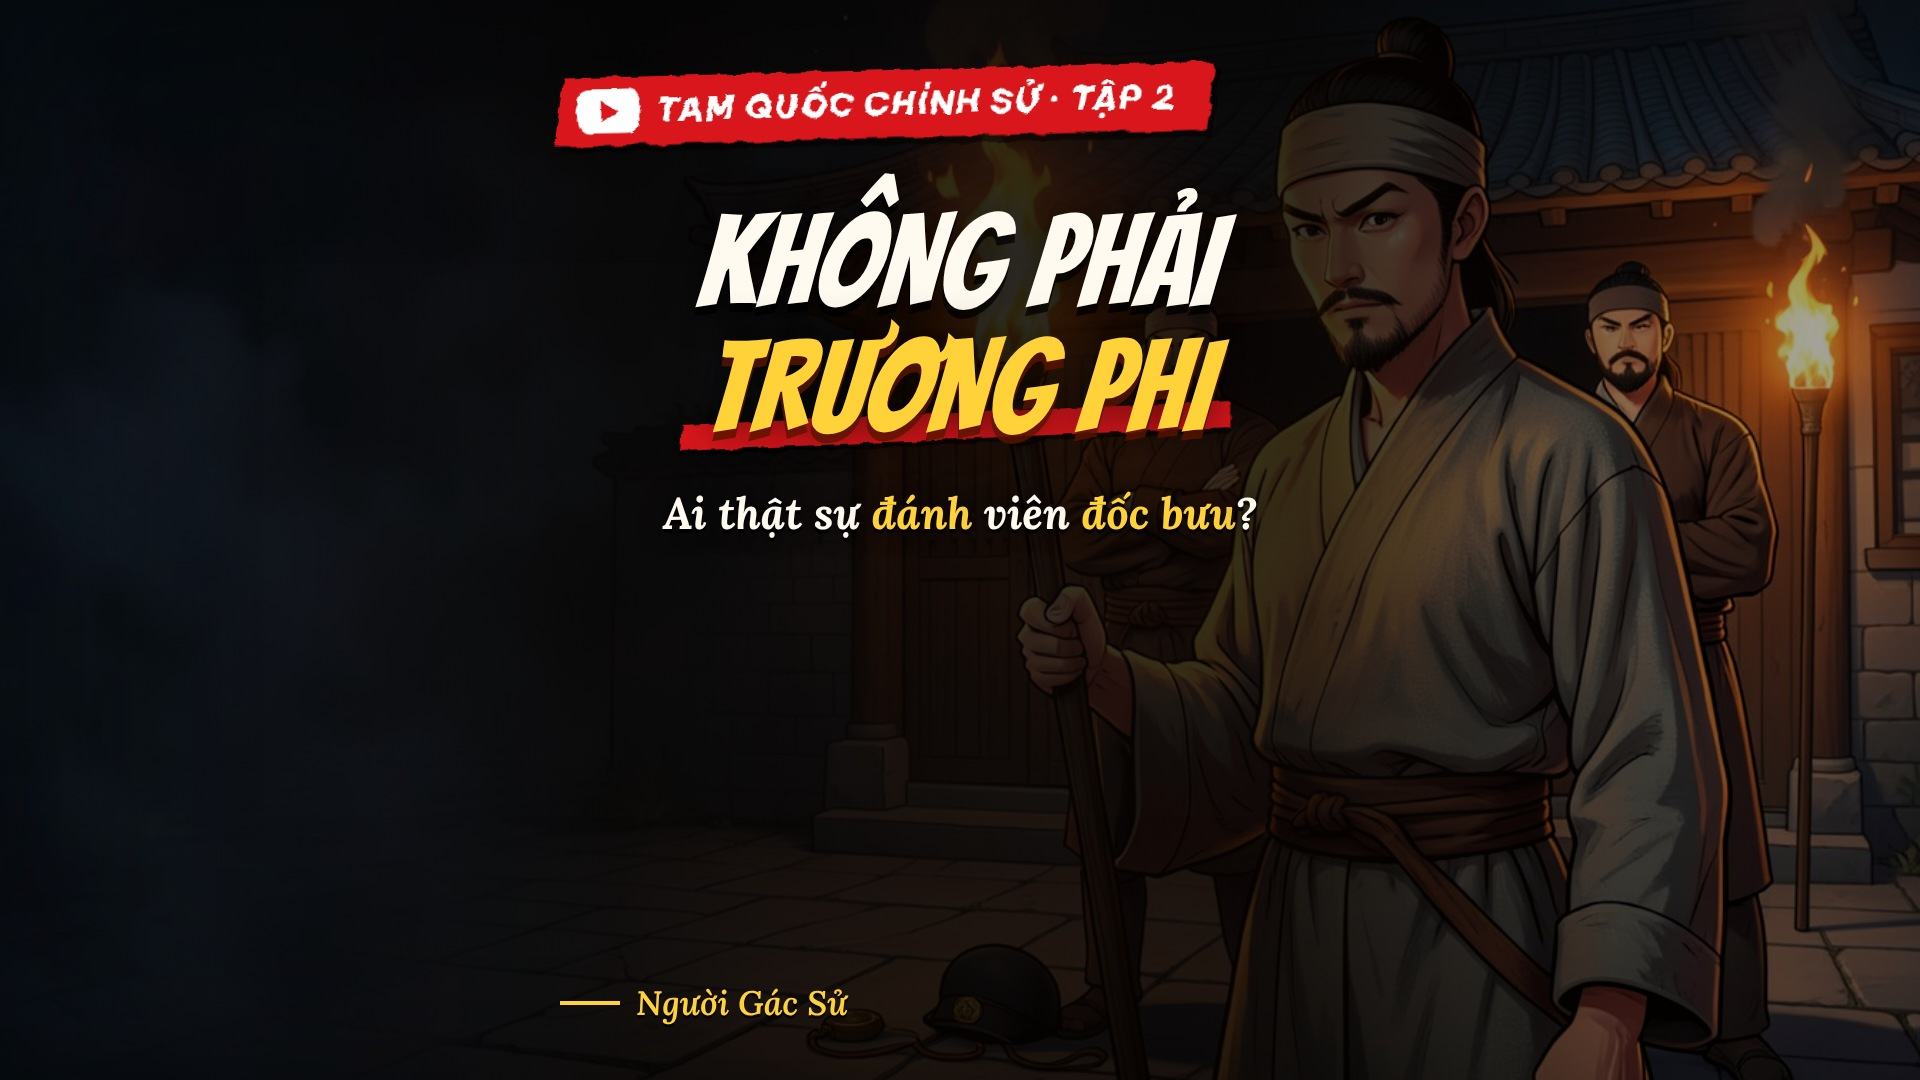
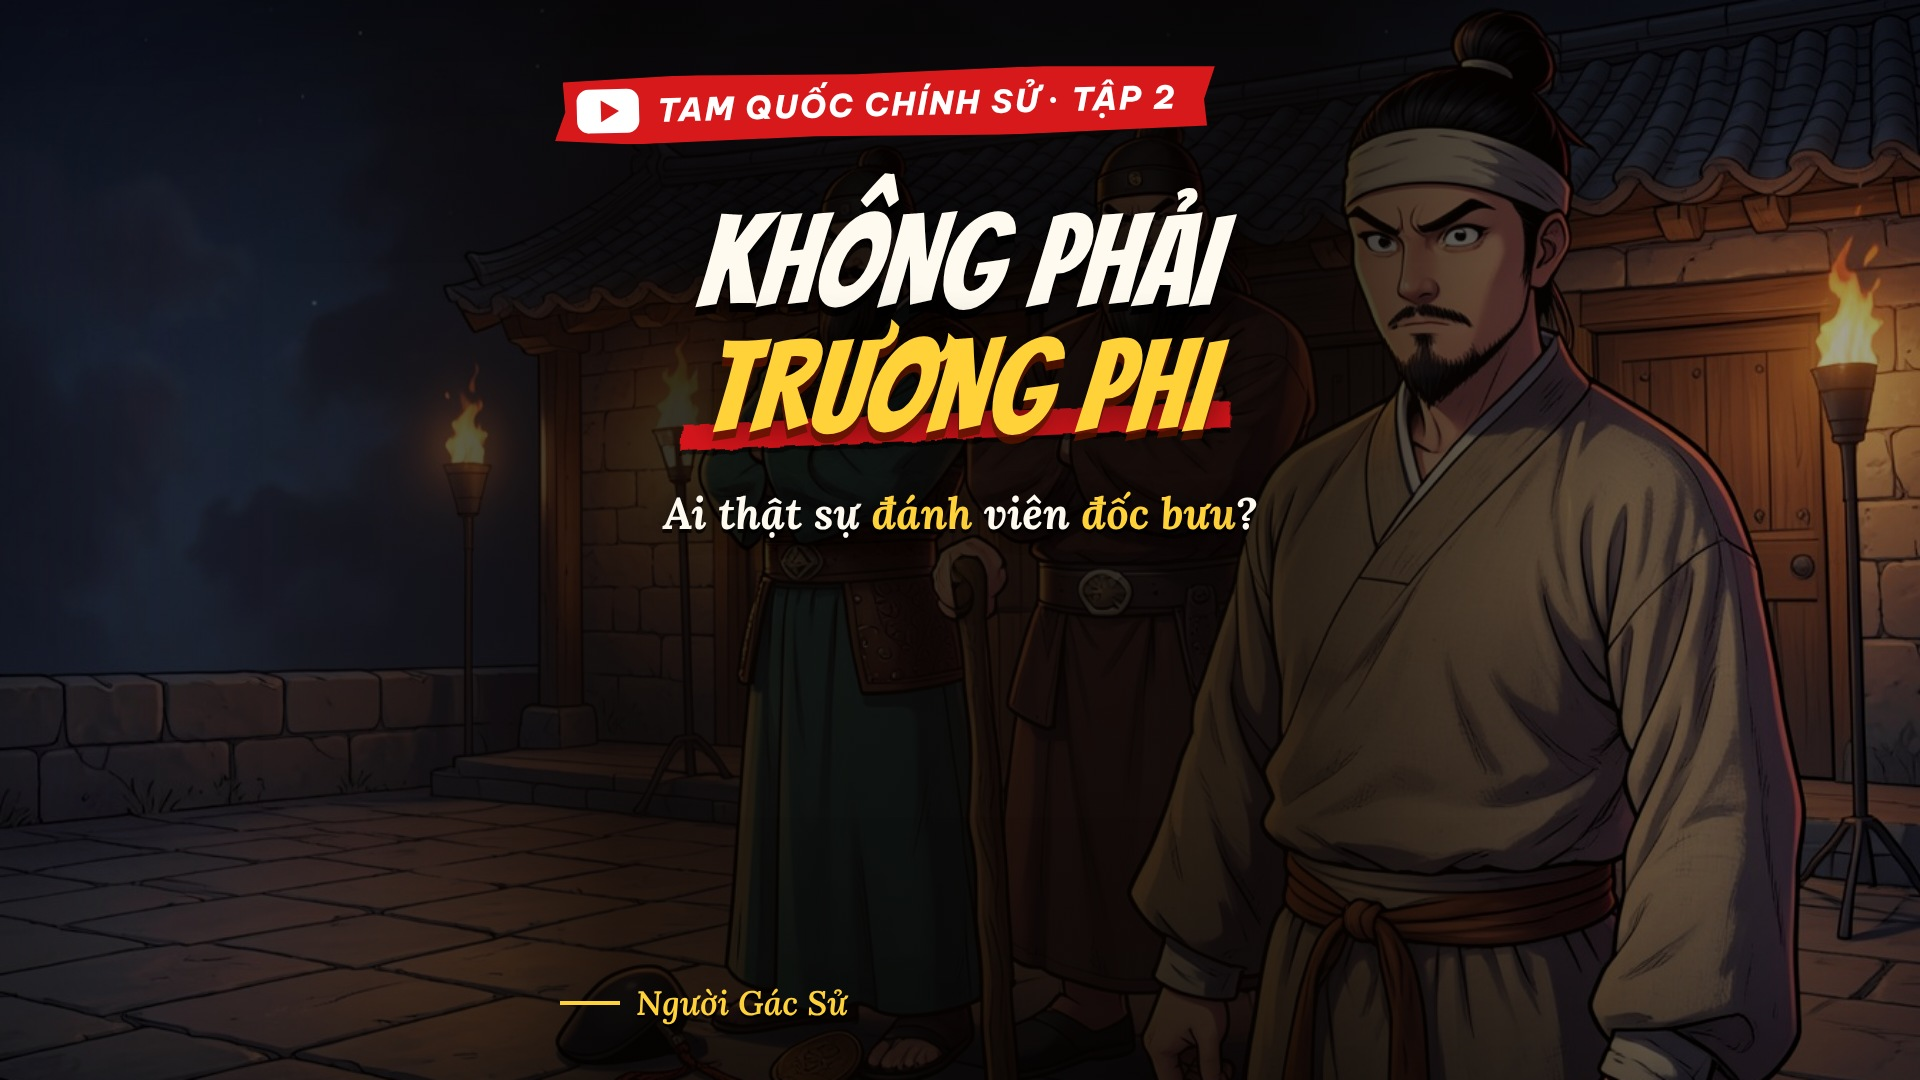
Bìa TQ2: Quan Vũ, Trương Phi đứng sau Lưu Bị; chữ nhỏ lại để không đè nhân vật
Claude-Session: https://claude.ai/code/session_01HrHutZPxqihVFi29VgDfRn

diff --git a/templates/bia2.html b/templates/bia2.html
@@ -31,7 +31,7 @@ body.v #shade{background:linear-gradient(0deg,rgba(8,4,2,1) 0%,rgba(8,4,2,.95) 2
 /* khổ rộng */
 body.w #badge{left:80px;top:64px}
 body.w #txt{left:80px;top:196px}
-body.w .t{font-size:176px;letter-spacing:1px}
+body.w .t{font-size:158px;letter-spacing:1px}
 body.w .t2{margin-top:6px}
 body.w .sub{margin-top:50px;font-size:56px;white-space:nowrap}
 body.w #brand{left:84px;bottom:50px;font-size:38px}
